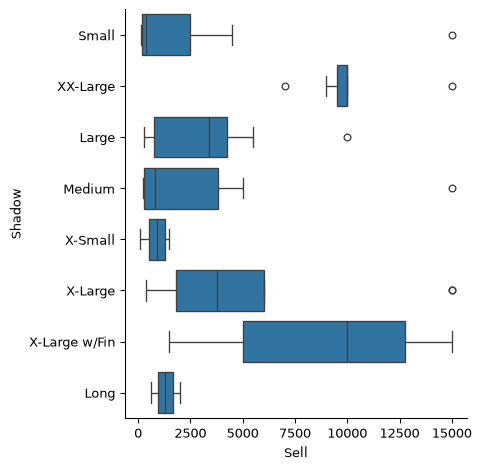
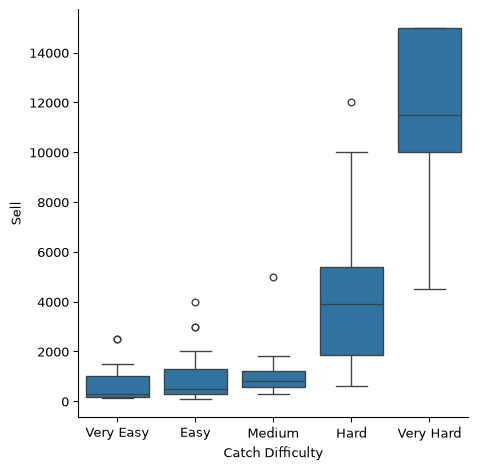
plot updates

diff --git a/README.md b/README.md
@@ -328,7 +328,21 @@ plt.show()
 
 ![](readme_files/figure-commonmark/cell-9-output-1.png)
 
+``` python
+#Stacked histogram for the distribution of Sell by weather
+sns.displot(data=insects, x='Sell', hue='Weather', kind='kde', multiple="stack")
+plt.show()
+```
+
+    C:\Users\Parri Salak\AppData\Local\Temp\ipykernel_11132\1439334690.py:2: UserWarning: Dataset has 0 variance; skipping density estimate. Pass `warn_singular=False` to disable this warning.
+      sns.displot(data=insects, x='Sell', hue='Weather', kind='kde', multiple="stack")
+
+![](readme_files/figure-commonmark/cell-10-output-2.png)
+
 It seems like the best time to catch insects is when it is not raining.
+Insecta caught during rainy weather seem to have a consistent lower sell
+price, whereas those caught in any weather are spread towards mor
+extreme values.
 
 ``` python
 max_sell = insects['Sell'].max()
@@ -373,7 +387,7 @@ sns.catplot(data=fish, x='Catch Difficulty', y='Sell', kind='box', order=custom_
 plt.show()
 ```
 
-![](readme_files/figure-commonmark/cell-11-output-1.png)
+![](readme_files/figure-commonmark/cell-12-output-1.png)
 
 As expected, the sell price appears to increase as the fish become more
 difficult to catch.
@@ -424,7 +438,7 @@ sns.catplot(data=sea_creatures, x='Sell', y='Movement Speed', kind='box', order=
 plt.show()
 ```
 
-![](readme_files/figure-commonmark/cell-13-output-1.png)
+![](readme_files/figure-commonmark/cell-14-output-1.png)
 
 Faster sea creatures, which are more difficult to catch, also seem to
 have a higher sell price.
@@ -505,17 +519,17 @@ sns.countplot(data=critterpedia, x='type')
 plt.show()
 ```
 
-![](readme_files/figure-commonmark/cell-18-output-1.png)
+![](readme_files/figure-commonmark/cell-19-output-1.png)
 
 How does Sell price differ across types of critters?
 
 ``` python
 #Boxplot showing Sell price broken down by type of critter
-sns.catplot(data=critterpedia, x='type', y='Sell', kind='box')
+sns.catplot(data=critterpedia, x='type', y='Sell', kind='box', hue='type')
 plt.show()
 ```
 
-![](readme_files/figure-commonmark/cell-19-output-1.png)
+![](readme_files/figure-commonmark/cell-20-output-1.png)
 
 Just based on sell price for each type of critter, it seems like the
 best strategy for making money would be to focus on catching sea
@@ -629,6 +643,18 @@ critterpedia.isnull().sum()
     Movement Speed             160
     dtype: int64
 
+Based on the counts of missing values, I know that only sea creaturtes
+are missing data for the “Where/How” varibale. Because of this, I can
+fill in all missing values for it with the “Sea”.
+
+``` python
+#Replace missing values for where/how with 'sea'
+critterpedia['Where/How'] = critterpedia['Where/How'].fillna('Sea')
+critterpedia['Where/How'].isnull().sum()
+```
+
+    np.int64(0)
+
 ## Critter Catching Strategy
 
 Finally, I want to compare how the different critter types compare
@@ -687,7 +713,7 @@ sns.countplot(data=critterpedia, x='type', hue='Surface')
 plt.show()
 ```
 
-![](readme_files/figure-commonmark/cell-27-output-1.png)
+![](readme_files/figure-commonmark/cell-29-output-1.png)
 
 Based on this is, it seems like I am most likely to encounter insects in
 the wild, and sea creatures might take the most effort to locate.
@@ -772,6 +798,19 @@ target_critters
 Although this gives me the critters that can be sold for the most bells,
 they all have extremely low spawn rates that would make it difficult to
 specifically aim to catch them.
+
+I suspect that as sell price increases, spawn rates descrease. This
+would be why I am having a more difficult time identifying critters with
+high values for each. I’ll use a scatterplot to investigate this.
+
+``` python
+#Scatterplot showing the relationship between sell price and spawn rates
+#Colored by critter type
+sns.scatterplot(data=critterpedia, x='Sell', y='Spawn Rates', hue='type')
+plt.show()
+```
+
+![](readme_files/figure-commonmark/cell-32-output-1.png)
 
 Because of this, I am going to filter the data to only those critters
 with a high enough spawn rate and sell price. I will do that by only
